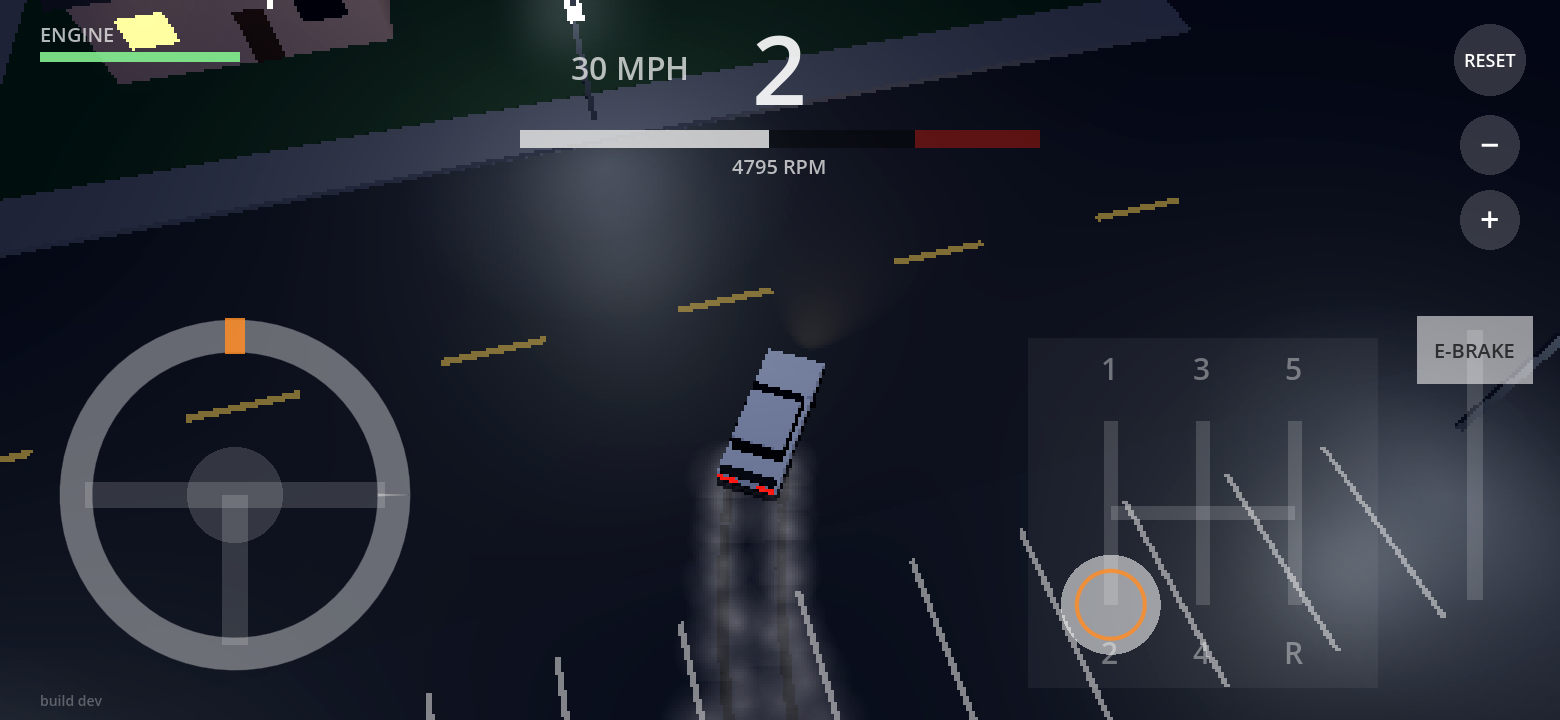
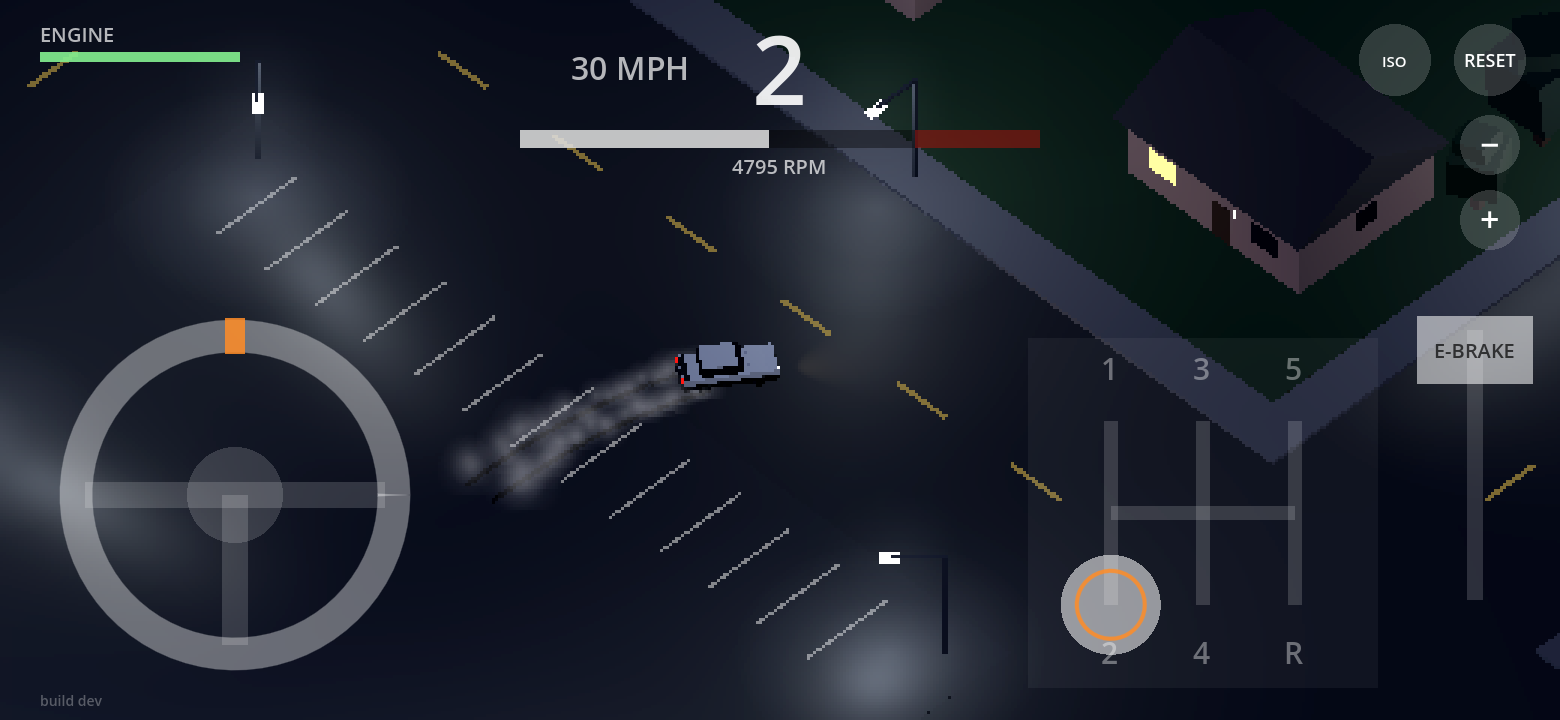
Fixed isometric camera (default) with ISO/FOLLOW toggle
Orthographic view from the south-east corner that never spins, so you watch
the car slide across a still world. The VIEW button (V / Select) flips back
to the follow cam; choice and zoom are remembered.

Claude-Session: https://claude.ai/code/session_01X5D3N9oUK59uFhYSHv3wU5

diff --git a/README.md b/README.md
@@ -33,6 +33,7 @@ Built in Godot 4.7.
 | Steer | Twist the wheel (bottom-left). Let go and it spins back to center | A / D or arrows | Left stick |
 | Shift | Drag the knob through the H gate (bottom-right) | 1-5, N or 0, R | R1 up / L1 down |
 | E-brake | Pull the lever down (far right) | Space | B or L2 |
+| Camera | ISO / FOLLOW button (top-right) toggles fixed isometric vs chase cam | V | Select |
 | Zoom | Pinch anywhere empty, or the − / + buttons (top-right) | - / = or mouse wheel | Y / X |
 | Reset | RESET (top-right) | Enter | Start |
 
@@ -57,7 +58,7 @@ Everything is built in code from `scripts/main.gd`, no scene editing needed.
 | `scripts/hud.gd` | Gear, tach, speed, engine health, drift points |
 | `scripts/neighborhood.gd` | The night suburb and street lights |
 | `scripts/car_model.gd` | Placeholder car, skid marks, smoke, brake lights |
-| `scripts/chase_camera.gd` | High chase camera with zoom (remembered between sessions) |
+| `scripts/chase_camera.gd` | Fixed isometric or high chase camera, with zoom (both remembered) |
 | `scripts/haptics.gd` | Vibration on gear changes |
 | `tests/test_drive.gd` | Automated test: launches, shifts, drifts, blows the engine |
 
